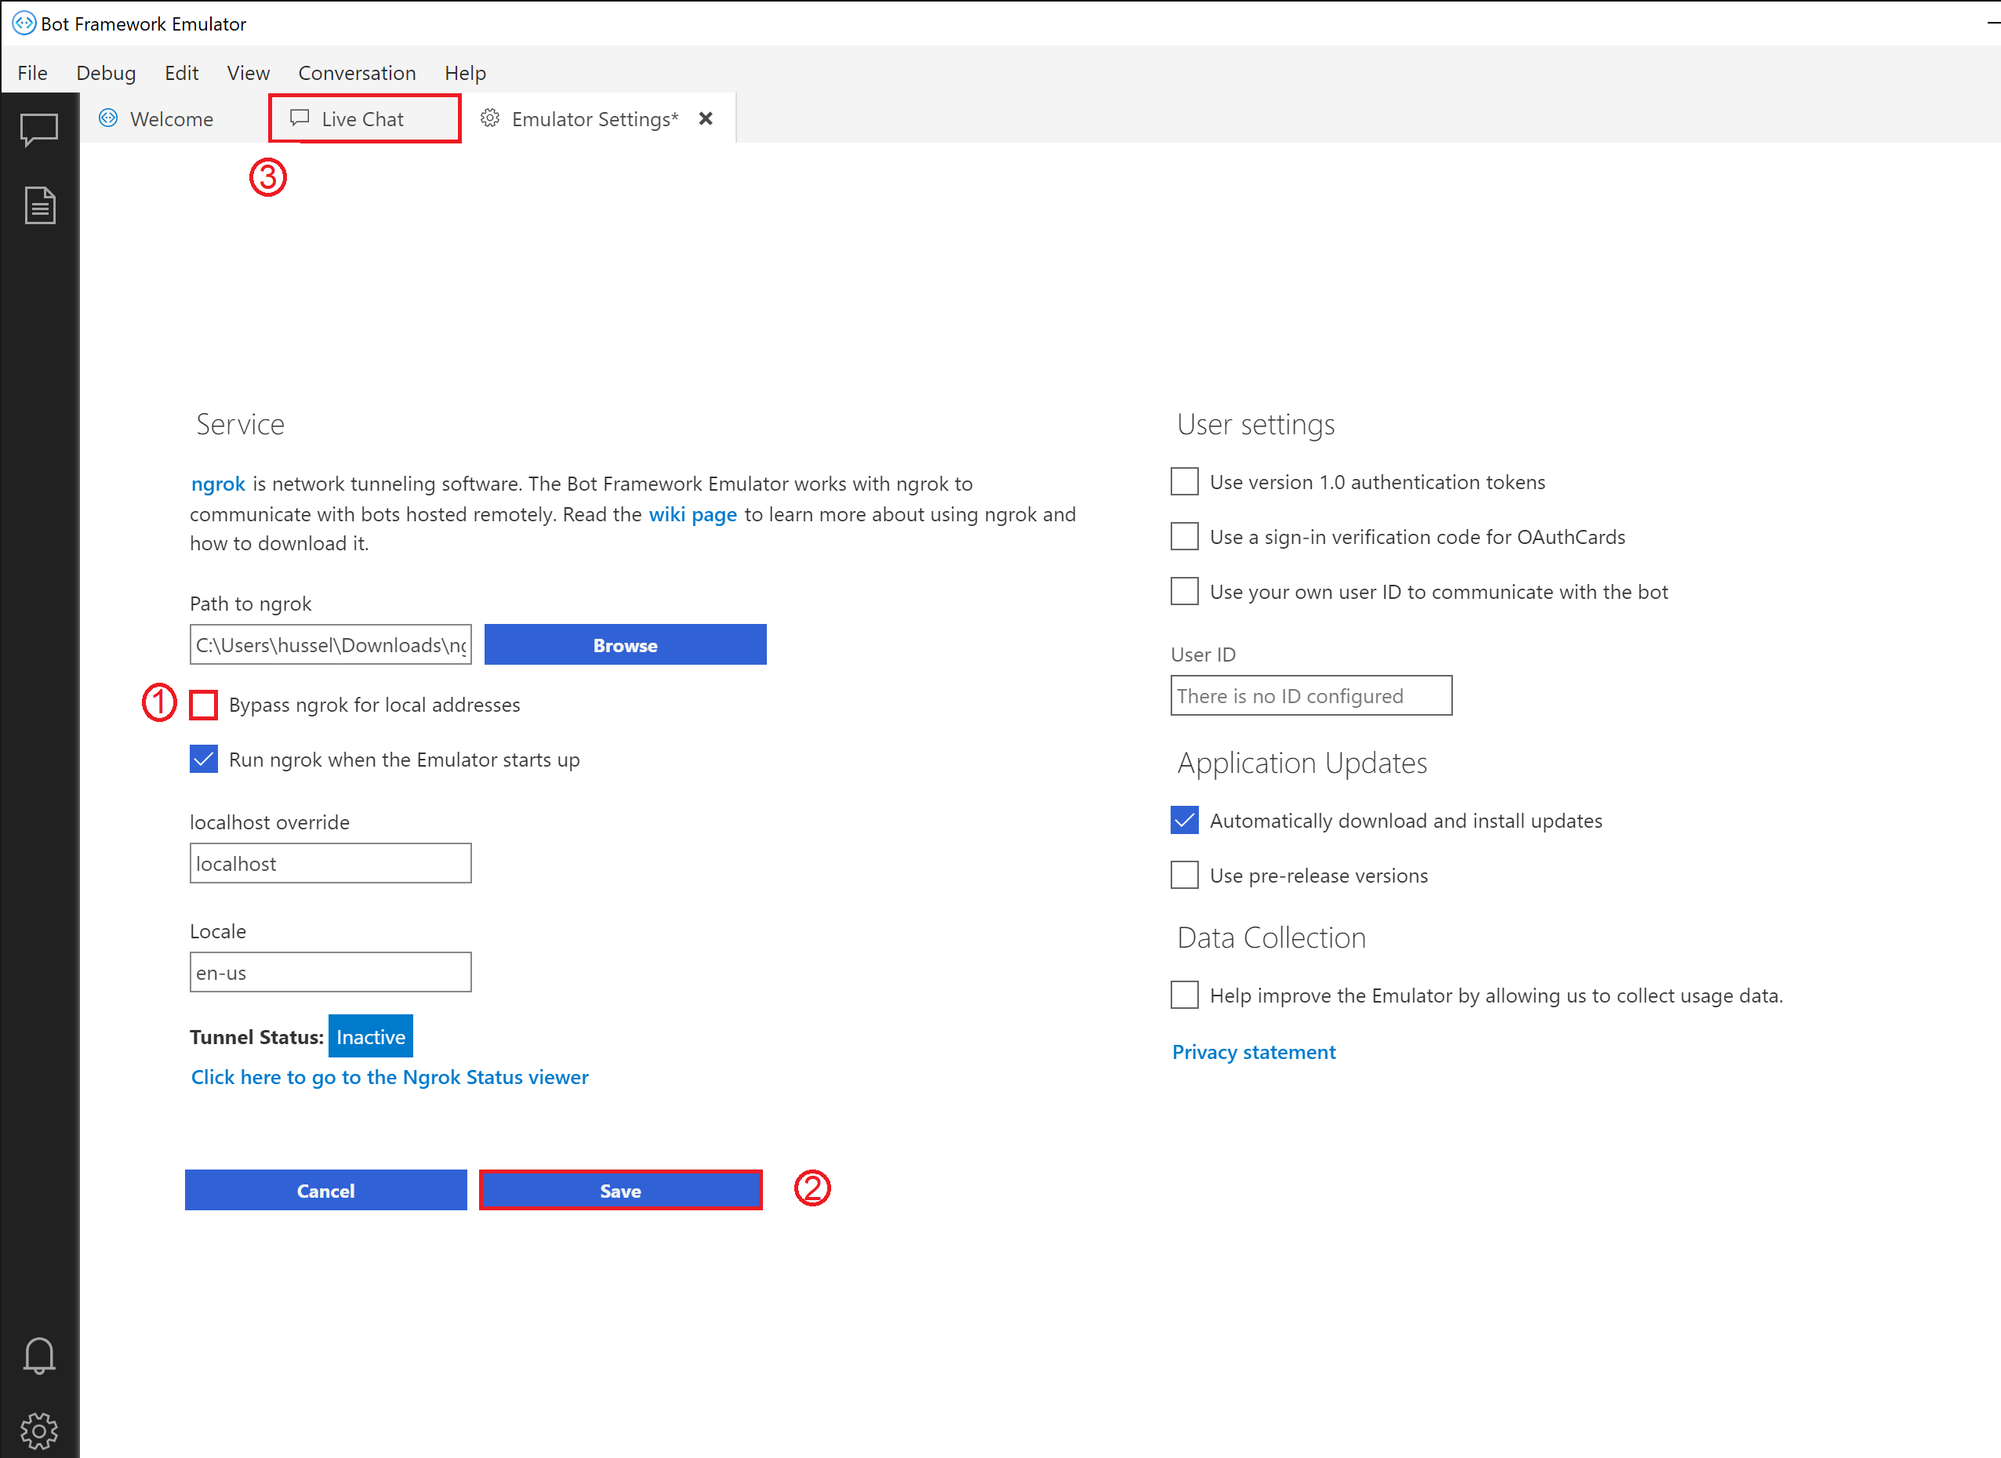
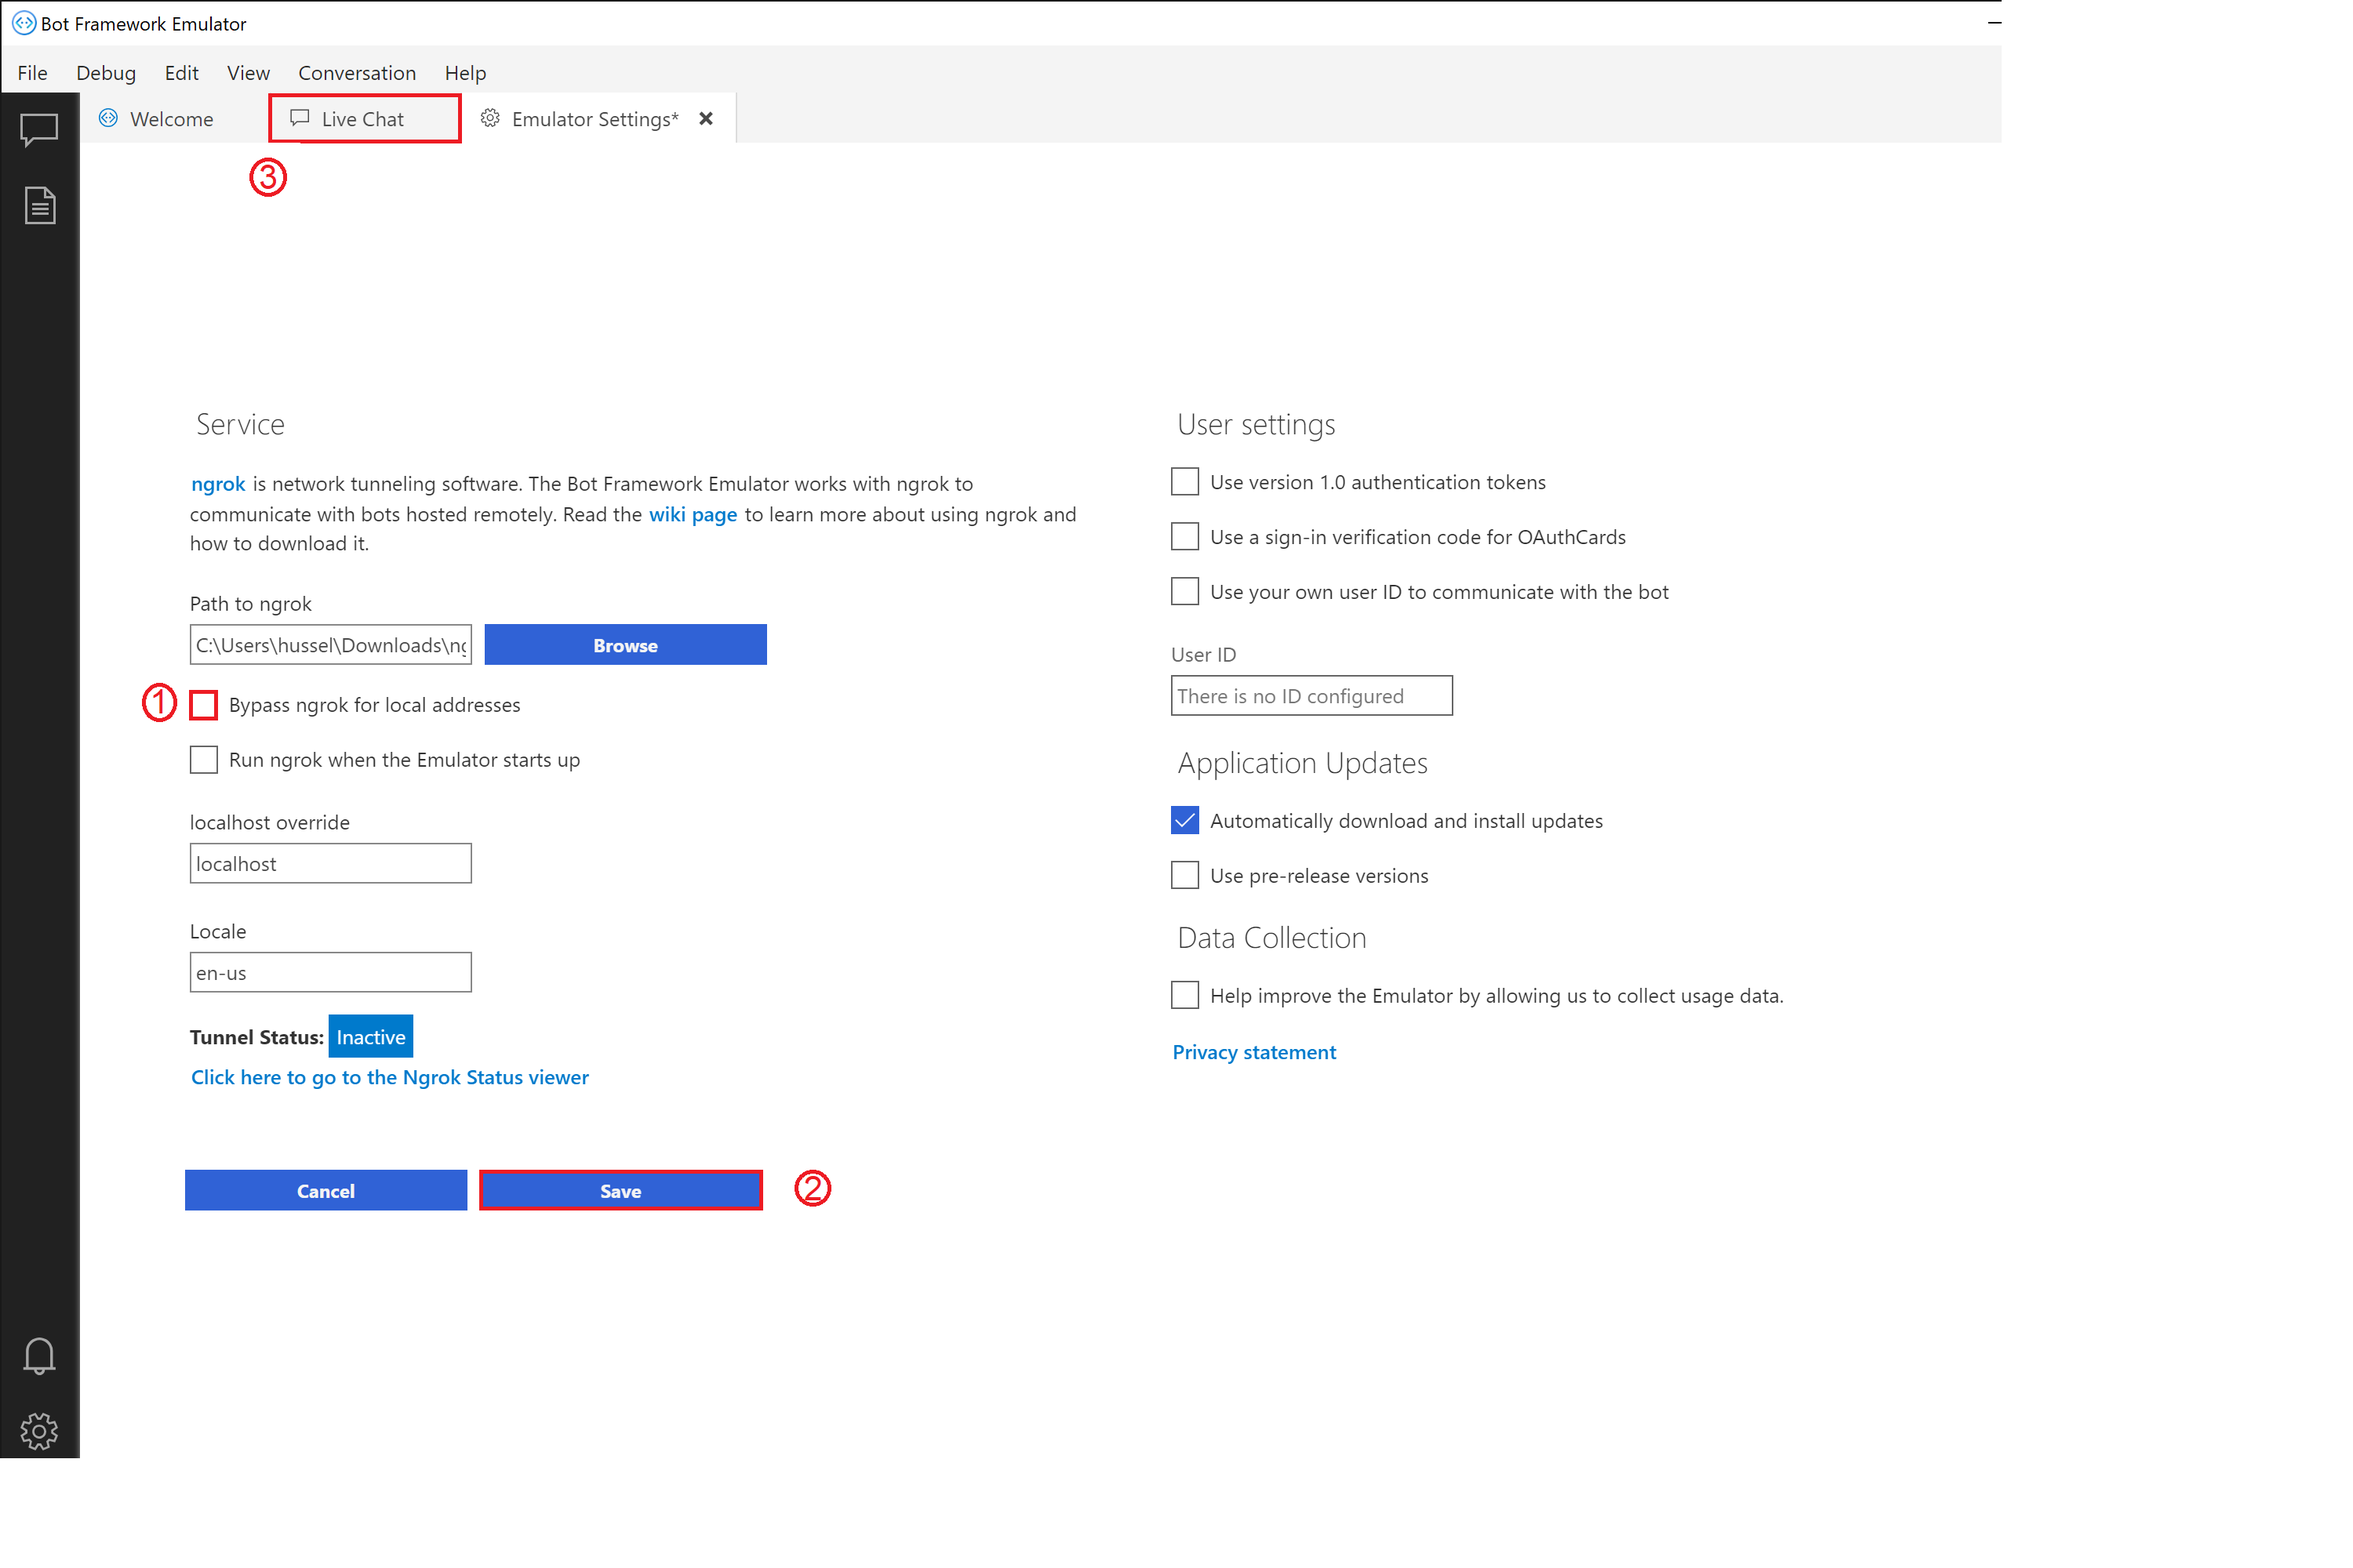
Updates.

diff --git a/README.md b/README.md
@@ -220,8 +220,9 @@ Bot Framework Composer is an open-source, visual authoring canvas for developers
 
       ![Bot Framework Composer - Set a property](./images/BFComposer-15.png)
 
-  1. Go ahead and click on **Restart the bot** and afterwards on **Test in Emulator**
+  1. Go ahead and click on **Restart the bot** located on the top right of the screen and afterwards on **Test in Emulator**
       - Click on the **Settings** icon and ensure the tickbox **Bypass ngrok for local addressess** is **unticked**
+      - Click **Save**
       - Swith back to the **Live Chat** tab
       ![Bot Framework Emulator](./images/bf-emulator-3.png) 
       - Try asking the bot to analyse your picture again and upload the same picture. You should see a response similar to the screenshot below:-
